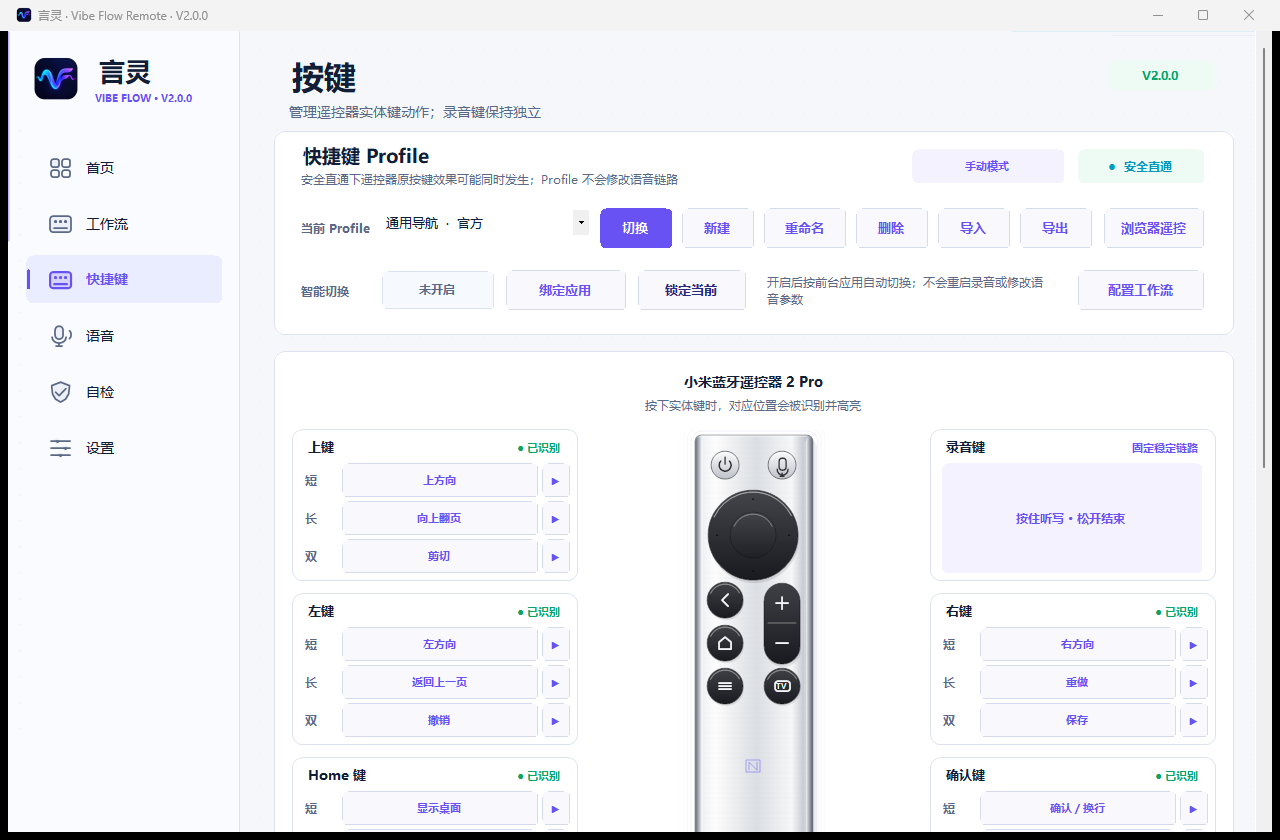
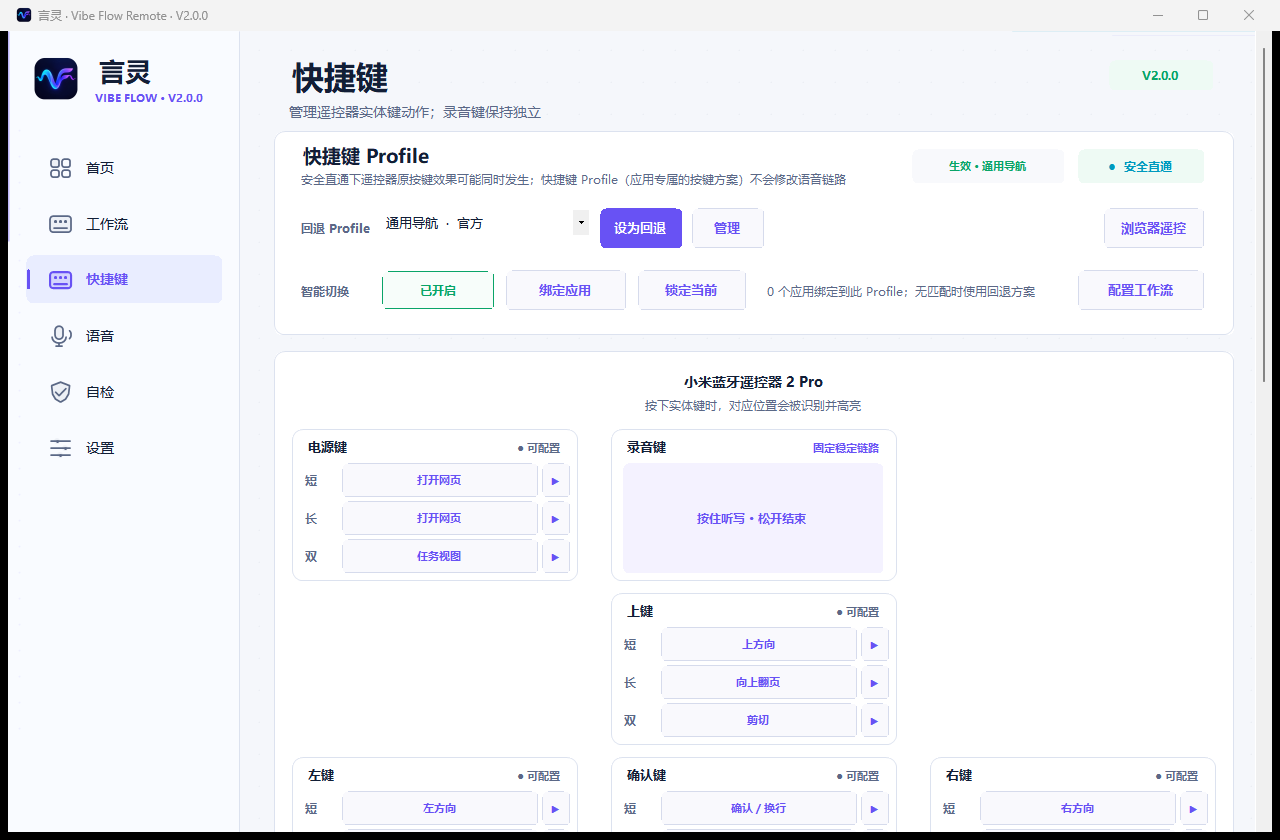
feat(v2.0): the shortcut page's cards follow the remote's own layout

diff --git a/scripts/validate.js b/scripts/validate.js
@@ -1134,7 +1134,33 @@ assert(includesAll(app, [
   "CaptureActiveShortcutProfileMappings(powerProbe);",
   "An unassigned power key is not left as a passthrough key",
   "An assigned power key is not intercepted: the assignment did not survive the profile round trip",
-]), "The power key lost the projection entry, its safe default, or the assertion that proves an assignment is honoured");// The power card's argument wiring, checked slot by slot rather than judged by how it looks. The builder is
+]), "The power key lost the projection entry, its safe default, or the assertion that proves an assignment is honoured");// The shortcut page's cards follow the remote itself, top to bottom, instead of two arbitrary columns.
+//
+// The device's own illustration in RemoteVisual is the reference: 电源键 and 录音键 are the two top buttons, the
+// direction ring sits below them with confirm in its centre, and Home / 功能键 / TV are the lower buttons with 功能键
+// and TV side by side. The cards used to be split left and right with no relation to that shape — the power key was
+// the last card in the left column while the record key was the first in the right one. They are now a three-column
+// grid (18 / 337 / 656, the middle column being the remote's centre line) laid out in the device's own order, with
+// 电源键 and 录音键 together on the top row.
+//
+// Back and the volume rocker are deliberately absent: they never reach Windows' ordinary input stack on this
+// hardware, so two cards that could never be configured would be worse than the note that explains their absence.
+assert(includesAll(app, [
+  'AddMappingOverviewCard(canvas, previewRemote, new Point(18, 78), "电源键", "电源键", "power",',
+  'AddFixedVoiceOverviewCard(canvas, previewRemote, new Point(337, 78));',
+  'AddMappingOverviewCard(canvas, previewRemote, new Point(337, 78 + GestureCardPitch), "上键", "上键", "up",',
+  'AddMappingOverviewCard(canvas, previewRemote, new Point(18, 78 + GestureCardPitch * 2), "左键", "左键", "left",',
+  'AddMappingOverviewCard(canvas, previewRemote, new Point(337, 78 + GestureCardPitch * 2), "确认键", "确认键", "ok",',
+  'AddMappingOverviewCard(canvas, previewRemote, new Point(656, 78 + GestureCardPitch * 2), "右键", "右键", "right",',
+  'AddMappingOverviewCard(canvas, previewRemote, new Point(337, 78 + GestureCardPitch * 3), "下键", "下键", "down",',
+  'AddMappingOverviewCard(canvas, previewRemote, new Point(18, 78 + GestureCardPitch * 4), "Home", "Home 键", "home",',
+  'AddMappingOverviewCard(canvas, previewRemote, new Point(337, 78 + GestureCardPitch * 4), "功能键", "功能键", "menu",',
+  'AddMappingOverviewCard(canvas, previewRemote, new Point(656, 78 + GestureCardPitch * 4), "TV", "TV 键", "tv",',
+  // The illustration and the legend moved below the grid, which is why the canvas grew.
+  'previewRemote.Location = new Point(18, 950);',
+  'AddGestureLegendCard(canvas, new Point(656, 950));',
+  'var canvas = NewCard(new Point(34, 320), new Size(960, 1520));',
+]), "The shortcut page stopped following the remote's layout, or a card moved off the grid");// The power card's argument wiring, checked slot by slot rather than judged by how it looks. The builder is
 // AddMappingOverviewCard(parent, preview, location, physicalKey, label, remoteControl, shortKey, longKey,
 // requiresHardwareReport), and for the power key each slot has to hold the same kind of value the shipped keys put
 // there: physicalKey is the name the observation record uses (the bridge logs a key by its mapping label, which is
@@ -1146,7 +1172,8 @@ assert(includesAll(app, [
   'private void AddMappingOverviewCard(Control parent, RemoteVisual preview, Point location,',
   'string physicalKey, string label, string remoteControl, string shortKey, string longKey,',
   'bool requiresHardwareReport)',
-  'AddMappingOverviewCard(canvas, previewRemote, new Point(18, 78 + GestureCardPitch * 4), "电源键", "电源键", "power",',
+  // The power card now opens the grid's top row, beside the record key, as the two top buttons on the device.
+  'AddMappingOverviewCard(canvas, previewRemote, new Point(18, 78), "电源键", "电源键", "power",',
   '"电源键", "", false);',
   // The save path writes shortKey, so this is the pair that has to agree with the projection.
   'EditGestureLayerAction(remoteControl, rowLabel, kind, shortKey, longKey)',
@@ -1172,7 +1199,8 @@ assert(includesAll(read("scripts/VoxDeckInputBridge.cs"), [
 // the generated configuration while the user had no way to assign it. The page's own copy also still listed it among
 // the unsupported controls.
 assert(includesAll(app, [
-  'AddMappingOverviewCard(canvas, previewRemote, new Point(18, 78 + GestureCardPitch * 4), "电源键", "电源键", "power",',
+  // The power card now opens the grid's top row, beside the record key, as the two top buttons on the device.
+  'AddMappingOverviewCard(canvas, previewRemote, new Point(18, 78), "电源键", "电源键", "power",',
   '"电源键", "", false);',
   // The note also has to say what makes the key take effect, because an unassigned power key is left to Windows.
   '电源键需先指派动作才生效（未指派时交由 Windows，轻触无动作）；返回与独立音量键在 Windows 下无稳定事件，不提供映射。',

diff --git a/scripts/VibeMic.cs b/scripts/VibeMic.cs
@@ -7629,7 +7629,7 @@ deck.Hide();
 
     private void BuildMappingsPage()
     {
-        content.AutoScrollMinSize = new Size(1000, 116 + FavoriteAppsCardHeight() + 1066 + 60);
+        // The shortcuts canvas grew by 560 px when its cards were laid out to follow the remote itself (the\n        // illustration and the gesture legend now sit underneath the grid).\n        content.AutoScrollMinSize = new Size(1000, 116 + FavoriteAppsCardHeight() + 1626 + 60);
         BridgeHealthSnapshot mappingHealth = ReadKeyboardBridgeHealth();
         bool exactDeviceIsolation = mappingHealth.FilterHealthy;
         AddPageTitle("快捷键", "管理遥控器实体键动作；录音键保持独立");
@@ -7775,7 +7775,7 @@ deck.Hide();
         header.Controls.Add(smartSummary);
         header.Controls.Add(focusTargets);
 
-        var canvas = NewCard(new Point(34, 320), new Size(960, 960));
+        var canvas = NewCard(new Point(34, 320), new Size(960, 1520));
         var canvasTitle = NewLabel("小米蓝牙遥控器 2 Pro", 10.2f, FontStyle.Bold, ink);
         canvasTitle.Location = new Point(342, 16);
         canvasTitle.Size = new Size(276, 28);
@@ -7787,7 +7787,9 @@ deck.Hide();
 
         var previewRemote = new RemoteVisual();
         previewRemote.DesignScaleFactor = DesignScale();
-        previewRemote.Location = new Point(330, 78);
+        // The cards below now follow the remote's own layout, so the illustration is the reference underneath them
+        // rather than the thing they are arranged around.
+        previewRemote.Location = new Point(18, 950);
         previewRemote.Size = new Size(300, 474);
         previewRemote.IsActive = true;
         previewRemote.ShowCallouts = false;
@@ -7795,29 +7797,39 @@ deck.Hide();
         previewRemote.HighlightedControl = "";
         remoteVisual = previewRemote;
 
-        AddGestureLegendCard(canvas, new Point(330, 570));
+        AddGestureLegendCard(canvas, new Point(656, 950));
 
-        AddMappingOverviewCard(canvas, previewRemote, new Point(18, 78), "上键", "上键", "up",
-            "上键", "", false);
-        AddMappingOverviewCard(canvas, previewRemote, new Point(18, 78 + GestureCardPitch), "左键", "左键", "left",
-            "左键", "", false);
-        AddMappingOverviewCard(canvas, previewRemote, new Point(18, 78 + GestureCardPitch * 2), "Home", "Home 键", "home",
-            "Home:short", "Home:long", false);
-        AddMappingOverviewCard(canvas, previewRemote, new Point(18, 78 + GestureCardPitch * 3), "功能键", "功能键", "menu",
-            "功能键:short", "功能键:long", false);
-        // The remote's power button. Windows delivers it as the ACPI power key — VK 0xFF, scan code E0 5E — which the
-        // bridge has always recognised while nothing acted on it, so the key was recognised and dropped. It sits at
-        // the end of the left column, on the same row as TV in the right one.
-        AddMappingOverviewCard(canvas, previewRemote, new Point(18, 78 + GestureCardPitch * 4), "电源键", "电源键", "power",
+        // The cards are laid out the way the hardware is, top to bottom, on a three-column grid whose middle column
+        // is the remote's centre line (columns 18 / 337 / 656, card 286 wide):
+        //
+        //   row 1  开机键 · 录音键                 the two top buttons, side by side as on the remote
+        //   row 2  上键                            the top of the direction ring
+        //   row 3  左键 · 确认键 · 右键            the middle of the ring, confirm in the centre
+        //   row 4  下键                            the bottom of the ring
+        //   row 5  Home · 功能键 · TV              the lower buttons, 功能键 and TV side by side
+        //
+        // Back and the volume rocker sit between the ring and Home on the device but are absent here on purpose: they
+        // never reach Windows' ordinary input stack on this hardware, so they cannot be mapped, and the note at the
+        // foot of the page says so instead of showing two cards that could never be configured.
+        AddMappingOverviewCard(canvas, previewRemote, new Point(18, 78), "电源键", "电源键", "power",
             "电源键", "", false);
+        AddFixedVoiceOverviewCard(canvas, previewRemote, new Point(337, 78));
 
-        AddFixedVoiceOverviewCard(canvas, previewRemote, new Point(656, 78));
-        AddMappingOverviewCard(canvas, previewRemote, new Point(656, 78 + GestureCardPitch), "右键", "右键", "right",
-            "右键", "", false);
-        AddMappingOverviewCard(canvas, previewRemote, new Point(656, 78 + GestureCardPitch * 2), "确认键", "确认键", "ok",
+        AddMappingOverviewCard(canvas, previewRemote, new Point(337, 78 + GestureCardPitch), "上键", "上键", "up",
+            "上键", "", false);
+        AddMappingOverviewCard(canvas, previewRemote, new Point(18, 78 + GestureCardPitch * 2), "左键", "左键", "left",
+            "左键", "", false);
+        AddMappingOverviewCard(canvas, previewRemote, new Point(337, 78 + GestureCardPitch * 2), "确认键", "确认键", "ok",
             "确认键", "", false);
-        AddMappingOverviewCard(canvas, previewRemote, new Point(656, 78 + GestureCardPitch * 3), "下键", "下键", "down",
+        AddMappingOverviewCard(canvas, previewRemote, new Point(656, 78 + GestureCardPitch * 2), "右键", "右键", "right",
+            "右键", "", false);
+        AddMappingOverviewCard(canvas, previewRemote, new Point(337, 78 + GestureCardPitch * 3), "下键", "下键", "down",
             "下键", "", false);
+
+        AddMappingOverviewCard(canvas, previewRemote, new Point(18, 78 + GestureCardPitch * 4), "Home", "Home 键", "home",
+            "Home:short", "Home:long", false);
+        AddMappingOverviewCard(canvas, previewRemote, new Point(337, 78 + GestureCardPitch * 4), "功能键", "功能键", "menu",
+            "功能键:short", "功能键:long", false);
         AddMappingOverviewCard(canvas, previewRemote, new Point(656, 78 + GestureCardPitch * 4), "TV", "TV 键", "tv",
             "TV", "", false);
 
@@ -7828,8 +7840,8 @@ deck.Hide();
         // so supporting them would need a HID-level helper, which this version does not ship.
         var capabilityNote = NewLabel("电源键需先指派动作才生效（未指派时交由 Windows，轻触无动作）；返回与独立音量键在 Windows 下无稳定事件，不提供映射。APP、网页与截图请绑定到可配置按键。",
             8.0f, FontStyle.Regular, muted);
-        capabilityNote.Location = new Point(330, 886);
-        capabilityNote.Size = new Size(300, 54);
+        capabilityNote.Location = new Point(18, 1450);
+        capabilityNote.Size = new Size(938, 54);
         capabilityNote.TextAlign = ContentAlignment.MiddleCenter;
 
         canvas.Controls.Add(canvasTitle);

diff --git a/docs/V2_0_PROGRESS.md b/docs/V2_0_PROGRESS.md
@@ -5479,3 +5479,57 @@ if ((mapping == null || !mapping.enabled) && IsVoiceRawCandidate(...))
 3. **门禁** ✔：钉住新标签 ✔、钩子的放行分支 ✔、过滤器掩码的判定 ✔，并**禁止**旧标签回来 ✗
 
 验证：两处标签逐行确认 ✔、桥 self-test ✔、`validate` ✔。
+
+## 2026-09-12 快捷键页**按实物重排**（十字形方向环 ✔）—— 用户选定方向后实施
+
+### 用户的选择（按技能规程先给方向 ✔）
+
+- **布局方向**：**十字形方向环**（最贴实物 ✔）
+- **返回键 / 音量摇杆**：**不显示** ✗，只在底部文案说明 ✔
+
+### 实物布局的权威来源（应用自己的插图 ✔）
+
+`RemoteVisual.OnPaint`（`VibeMic.cs` 26320-26346 ✔）就是应用对实物的建模 ✔：
+
+| 设计坐标 | 控件 |
+| --- | --- |
+| (29,29) ∥ (83,29) | **开机键 ∥ 录音键**（并排最上 ✔） |
+| (56,96) r=43 | **方向环**（上/下/左/右 + 中心＝确认 ✔） |
+| (29,158) / (83,141-219) | 返回键 / 音量摇杆（实物有 ✔，用户态不可达 ✗） |
+| (29,199) | Home ✔ |
+| (29,240) ∥ (83,240) | 功能键 ∥ TV ✔ |
+
+### 改后的布局（三列栅格 18 / 337 / 656，卡 286×152，行距 164 ✔）
+
+```
+行1  电源键(18)       录音键(337, 固定卡)
+行2                   上键(337)
+行3  左键(18)         确认键(337)      右键(656)
+行4                   下键(337)
+行5  Home(18)         功能键(337)      TV(656)
+行6+ 遥控器插图(18,950) + 手势分层图例(656,950) + 底部说明(18,1450)
+```
+
+- 中列 **337 = 实物中心线** ✔（`RemoteVisual` 里方向环中心是 `sx(56)` ✔）
+- 画布由 **960×960 → 960×1520** ✔（插图与图例移到栅格下方 ✔），滚动高度相应 +560 ✔
+- 每张卡的**接线未变** ✔（`physicalKey / label / remoteControl / shortKey / longKey` 逐槽核对过 ✔）
+
+### 验证（技能核对表 ✔）
+
+- `validate` ✔；host self-test ✔
+- **几何**：`1280×1800` 强制尺寸下 **0 重叠 / 0 裁切** ✔（`no overlapping sibling controls and no clipped text` ✔）
+- **目视**：新布局截图（顶行电源+录音并排 ✔、十字方向环 ✔、功能键行 ✔、插图在最上方按钮与卡片顶行对应 ✔）
+- 六个页面仍可达 ✔（几何检查遍历六页 ✔）、录音键仍为「固定稳定链路」不可配置 ✔、主题/自检/隐私文案未触及 ✔
+- 发布链 ✔（12/12 界面矩阵 ✔）、安装器 exit 0、**51/51 逐文件一致** ✔、冻结采集件哈希未变 ✔
+- 门禁新增一条 ✔：钉住整套栅格坐标与"插图/图例已下移、画布已加高" ✔
+
+### 文档图与基线锁
+
+- 用项目自带的 `scripts/capture-ui-screenshots.ps1` **重拍** ✔ 并替换 `docs/images/03-shortcuts.png` 与 `03-shortcuts-screenshot.png` ✔（README、快速开始、FEATURES、V1.3/V1.5 指南引用的就是它 ✔）
+- 新增 `docs/images/03-shortcuts-layout.png` ✔：只保留卡片栅格区域的**布局参考图** ✔
+- **发现**：`V2_0_BASELINE_LOCK_ZH.md` 里该图的哈希（`61D8158D…`）与我改动**之前**的实测值（`23AF5EEA…`）**已经不一致** ✗ → 说明该锁在**更早的会话**里就已过期 ✔；本轮把它更新为当前值（`C82E34F6…`）✔ 并在此如实记录 ✔
+
+### 我这一轮的两个失误（都当场纠正 ✔）
+
+1. **截图工具抓到的是安装版的旧构建** ✗ —— 我杀进程时用的是 `VibeMic` ✗，而安装版进程名是 **`VibeFlow.exe`** ✗ → 抓到的是**旧布局** ✗。**发现方式**：我在换图**之前先看了新图** ✔（否则会把一张旧布局的图加进文档 ✗）。处置：`git checkout` 回退图 ✔ → 先跑发布链与安装 ✔ → 再重拍并**再次目视确认** ✔。
+2. **`.NET` 静态调用不认 PowerShell 的当前目录** ✗（`ReadAllText('docs\...')` 解析到了会话目录 ✗，报文件不存在 ✔）→ 改用**绝对路径** ✔。（cmdlet 的相对路径正常 ✔，所以图片复制是成功的 ✔。）

diff --git a/docs/V2_0_BASELINE_LOCK_ZH.md b/docs/V2_0_BASELINE_LOCK_ZH.md
@@ -173,7 +173,7 @@ RC003 录音输入
 | 截图 | 尺寸 | SHA-256 |
 | --- | --- | --- |
[5 lines of base64/hex data omitted]
 
